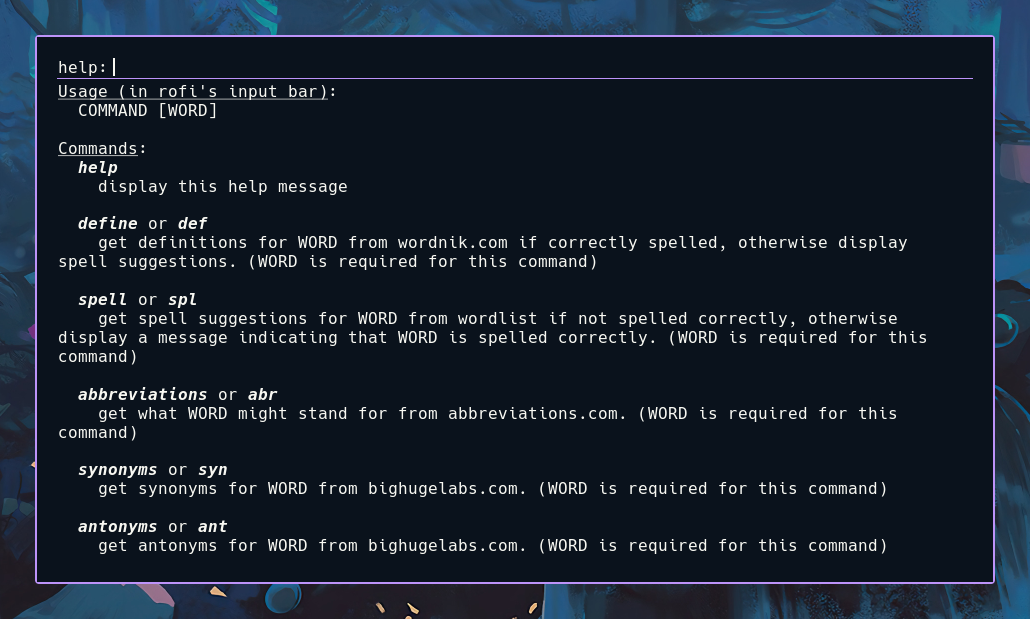
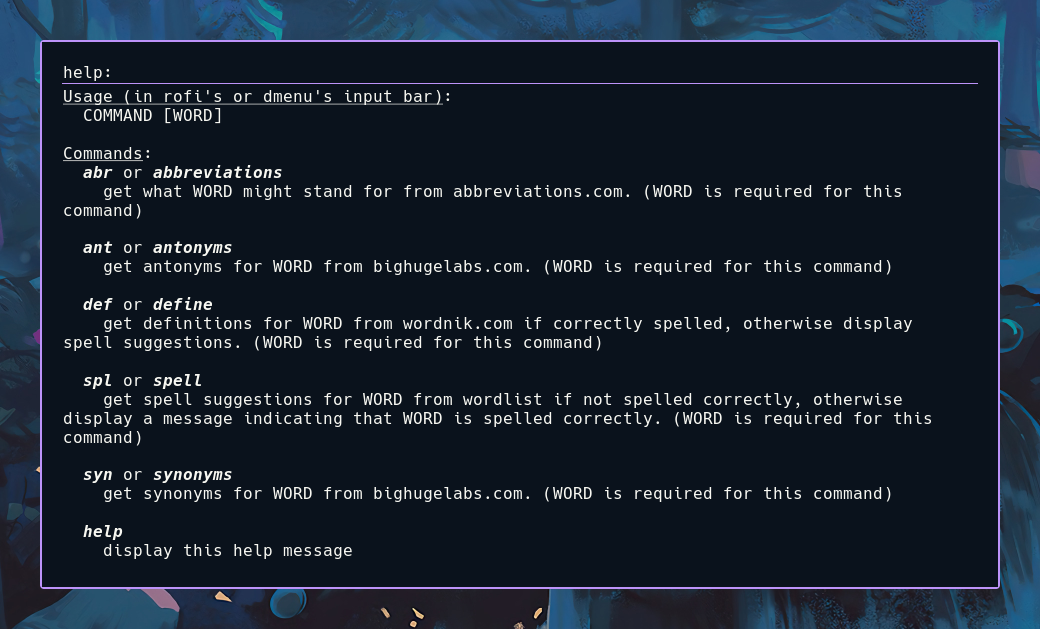
Update README to include et and dmenu_et

diff --git a/README.md b/README.md
@@ -1,8 +1,16 @@
-# rofi_et
+# et
 
-rofi_et is a rofi script with features to aid you with English.
+A CLI/rofi/dmenu script with features to aid you with English.
 
-![preview](./assets/preview.gif)
+## Preview
+
+### rofi_et
+
+![rofi_et](./assets/rofi_et.gif)
+
+### dmenu_et
+
+![dmenu_et](./assets/dmenu_et.gif)
 
 ## Features
 
@@ -17,7 +25,7 @@ rofi_et is a rofi script with features to aid you with English.
 
 > The installation script won't install the dependencies for you because I don't know the package names on distros other than Arch
 
-- `rofi` (of course) from `rofi` package on Arch
+- `rofi` or `dmenu`
 - `xclip` from `xclip` package on Arch => to copy selected spelling suggestion to clipboard
 - `notify-send` from `libnotify` package on Arch => to notify you on copying a spelling suggestion to clipboard
 - `agrep` from `tre` package on Arch => to do fuzzy searching in the wordlist to get spelling suggestions
@@ -29,9 +37,36 @@ rofi_et is a rofi script with features to aid you with English.
 3. run `install.sh` => `./install.sh`
 4. Voila 🎉
 
-> You will be asked to enter your password for sudo to move the executable to `/sbin/rofi_et` so that it's accessible from anywhere
+> You will be asked to enter your password for sudo to move the executables to `/sbin/` so that they're accessible from anywhere
 
 ## Usage
+
+### et
+
+```man
+Usage: et OPTION [WORD]
+
+Options:
+  -abr or --abbreviations
+    print what WORD might stand for from abbreviations.com. (WORD is required for this option)
+
+  -ant or --antonyms
+    print antonyms for WORD from bighugelabs.com. (WORD is required for this option)
+
+  -def or --define
+    print definitions for WORD from wordnik.com if correctly spelled, otherwise print spell suggestions. (WORD is required for this option)
+
+  -spl or --spell
+    print spell suggestions for WORD from wordlist if not spelled correctly (exits with 1 as exit code), otherwise print a message indicating that WORD is spelled correctly. (WORD is required for this option)
+
+  -syn or --synonyms
+    print synonyms for WORD from bighugelabs.com. (WORD is required for this option)
+
+  -h or --help
+    print this help message and exit
+```
+
+### rofi_et or dmenu_et
 
 ![usage](./assets/usage.png)
 
